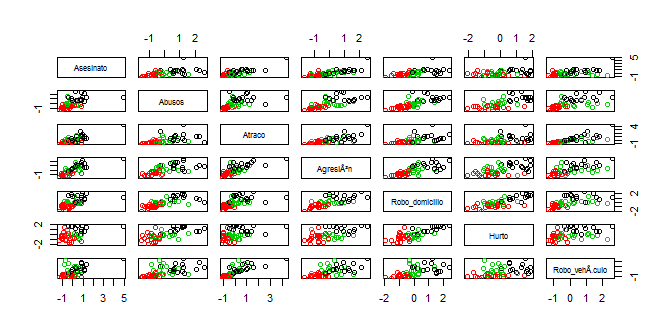
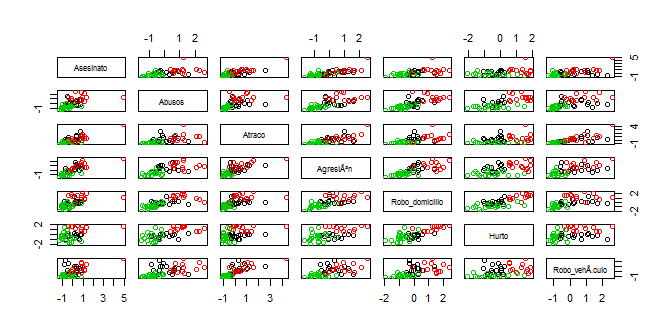
\newpage deleted from Cluster_PC_tree

diff --git a/Cluster_PC_Tree.md b/Cluster_PC_Tree.md
@@ -92,8 +92,6 @@ tanto teniendo o no en cuenta a DC.
 
 ![](Cluster_PC_Tree_files/figure-markdown_strict/unnamed-chunk-5-2.png)
 
-\newpage
-
 Los resultados obtenidos parecen razonables. Observemos a su vez que
 aunque alguna correlacion parece algo elevada, no lo es tanto como para
 plantearse eliminar variables directamente.
@@ -112,7 +110,6 @@ distancia euclídea.
     ## RI       3.5   21.4    119       192           1294  2568            705
     ## CT       4.6   23.8    192       205           1198  2758            447
 
-\newpage
 Metodos jerarquicos sobre datos estandarizados.
 -----------------------------------------------
 
@@ -218,7 +215,6 @@ a su vez proporciona un grafico de las alturas (banner), bastante util.
 Hemos repetido los mismos pasos que en el algoritmo aglomerativo y, esta
 vez, parece que tres clusters es la mejor opción.
 
-\newpage
 Métodos de partición.
 ---------------------
 
@@ -229,31 +225,30 @@ Métodos de partición.
     #centros de los clusters
     kmedias$centers
 
-    ##     Asesinato      Abusos      Atraco  AgresiÃ³n Robo_domicilio      Hurto
-    ## 1  0.87380966  1.11745387  0.91693437  1.0335396     1.14017264  1.0960816
-    ## 2 -0.60433142 -0.85530840 -0.71760700 -0.8625740    -0.91235428 -0.6229332
-    ## 3 -0.06378228  0.02152249  0.03738277  0.1092741     0.07153099 -0.2489100
+    ##     Asesinato     Abusos     Atraco  AgresiÃ³n Robo_domicilio      Hurto
+    ## 1  0.06553776  0.1053938  0.3775696  0.3328899     0.07188661 -0.2957222
+    ## 2  0.92523160  1.2594647  0.7734511  1.0160813     1.29682833  1.2628879
+    ## 3 -0.56569901 -0.7806064 -0.6834090 -0.7914089    -0.77987250 -0.5209439
     ##   Robo_vehÃ.culo
-    ## 1      0.7787957
-    ## 2     -0.8543079
-    ## 3      0.3377639
+    ## 1      0.5933648
+    ## 2      0.7629724
+    ## 3     -0.8182223
 
     #Vector de n componentes indicando el cluster al que se asigna  cada punto
     kmedias$cluster
 
     ## ME NH VT MA RI CT NY NJ PA OH IN IL MI WI MN IA MO ND SD NE KS DE MD DC VA 
-    ##  2  2  2  3  3  3  1  3  2  3  2  3  1  2  2  2  3  2  2  2  3  3  1  1  2 
+    ##  3  3  3  1  1  1  1  1  3  1  3  1  2  3  3  3  1  3  3  3  3  1  1  2  3 
     ## WV NC SC GA FL KY TN AL MS AR LA OK TX MT ID WY CO NM AZ UT NV WA OR CA AK 
-    ##  2  3  3  3  1  2  3  3  2  2  1  3  1  2  2  2  1  1  1  2  1  1  1  1  1 
+    ##  3  3  1  1  2  3  1  1  3  3  2  1  2  3  3  3  2  2  2  3  2  2  2  2  2 
     ## HI 
     ##  3
 
     #Número de puntos en cada cluster  
     kmedias$size
 
-    ## [1] 15 20 16
+    ## [1] 15 13 23
 
-\newpage
     plot(as.data.frame(datos2),col=c(1,2,3)[kmedias$cluster])
 
 ![](Cluster_PC_Tree_files/figure-markdown_strict/unnamed-chunk-13-1.png)
@@ -284,7 +279,6 @@ tres.
 
 ![](Cluster_PC_Tree_files/figure-markdown_strict/unnamed-chunk-15-1.png)![](Cluster_PC_Tree_files/figure-markdown_strict/unnamed-chunk-15-2.png)
 
-\newpage
 Este metodo proporciona una medida de silueta, la cual es bastante mala
 para k igual a tres. Tomemos k igual a dos ,lo cual es razonable
 teniendo en cuenta que en el proceso jerarquico DC quedaba separado en
@@ -355,7 +349,6 @@ etc) y tambien toma varios k distintos. Para cada uno de los resultados
 obtenidos nos devuelve un criterio de incertidumbre BIC que podemos usar
 para decidir que partición tomar.
 
-\newpage
     plot(clus_Mix,what = "BIC")
 
 ![](Cluster_PC_Tree_files/figure-markdown_strict/unnamed-chunk-22-1.png)
@@ -490,7 +483,6 @@ hora de decantarse por una partición es mejor no usar un metodo
 jerarquico, lo razonable parece elejir la obtenida mediante mixturas o
 mediante k-medioides.
 
-\newpage
 Ejercicio 2.
 ============
 
@@ -766,7 +758,6 @@ se parecen en sus correlaciones a las componentes principales, y pensar
 por lo tanto, que se parecen entre si. Es decir, buscar "grupos" de
 variables parecidas.
 
-\newpage
 Podemos usar graficos de caja y bigote para ver la variabilidad de cada
 componente principal.
 
@@ -823,7 +814,6 @@ Parece que la aproximación es buena, los resuduos mas altos se
 encuentran en la diagonal, esto se debe a que quedaba relativamente
 bastante varivilidad por explicar.
 
-\newpage
 ii) Realizar e interpretar un análisis de componentes principales para datos mixtos sobre la unión de gironde$employment y gironde$services.
 --------------------------------------------------------------------------------------------------------------------------------------------
 
@@ -1111,7 +1101,6 @@ altos, siendo ambas dimensiones mayores para etiquetas correspondientes
 a valores mas altos (si dejamos de lado a las correspondientes a valores
 nulos).
 
-\newpage
 Veamos ahora una representación de las 'correlaciones' entre las
 variables cuantitativas.
 
@@ -1151,7 +1140,6 @@ general, las variables categoricas parecen estar mas relaccionadas entre
 sí que las numericas, aunque evidentemente se aprecian grupos como el
 formado por doctor dentist y baker.
 
-\newpage
 iii) Aplicar procedimientos de selección de variables para construir modelos de regresión lineal donde income es la variable dependiente, sobre gironde$employment.
 -------------------------------------------------------------------------------------------------------------------------------------------------------------------
 
@@ -1217,7 +1205,6 @@ evalue que tal se comportan sobre el conjunto test.
       return(list(MSE=MSE,RMSE=RMSE,R2=R2))
     }
 
-\newpage
 Comencemos definiendo un modelo con todas las variables.
 
     modeloRL=lm(income~.,data=train_empleo)
@@ -1478,7 +1465,6 @@ conjunto test.
     predRLmej_test=predict(modeloRL_mej,newdata=test_empleo)
     predRLmej_test_acp=predict(modeloRL_mej_acp,newdata=test_empleo_acp)
 
-\newpage
     t(Ajuste(test_empleo$income,predRLmej_test,"leaps: mejor subconjunto"))
 
 ![](Cluster_PC_Tree_files/figure-markdown_strict/unnamed-chunk-74-1.png)
@@ -1783,7 +1769,6 @@ para crear un modelo lineal.
 Tomaríamos las mismas variables que en la busqueda exhaustiva, luego no
 hace falta generar de nuevo los modelos.
 
-\newpage
 ### Selección de variables mediante algoritmos genéticos.
 
 Carguemos una librería que permite el uso de estos algoritmos para
@@ -1830,7 +1815,6 @@ algoritmos genéticos.
              names = colnames(xent_acp), monitor = F,
              popSize=100)
 
-\newpage
     plot(AG, main= 'AG con variables originales')
 
 ![](Cluster_PC_Tree_files/figure-markdown_strict/unnamed-chunk-83-1.png)
@@ -1976,7 +1960,6 @@ Esta seleccion es algo peor que la obtenida mediante una busqueda
 exhaustiva. Aun así, usando componentes principales, el resultado es
 practicamente idéntico.
 
-\newpage
 Ejercicio 3.
 ============
 
@@ -2219,7 +2202,6 @@ Este metodo nos lleva a un arbol consistente en una única division sobre
 la variable balance. Veamos una nuve de puntos para ver si este corte
 basandose en solo una variable es razonable.
 
-\newpage
     library(ggplot2)
     ggplot(data=Default,aes(x=income,y=balance,color=default))+
       geom_point()+facet_wrap(~student,labeller = "label_both")+
@@ -2235,7 +2217,6 @@ basandose en solo una variable es razonable.
 Aparte de balance, podríamos decir que student afectaría ligeramente.
 Pero en general se ve como un separador tan simple parece razonable.
 
-\newpage
 ### Evaluación del modelo.
 
 Veamos que tal se comporta el modelo sobre el conjunto test.
